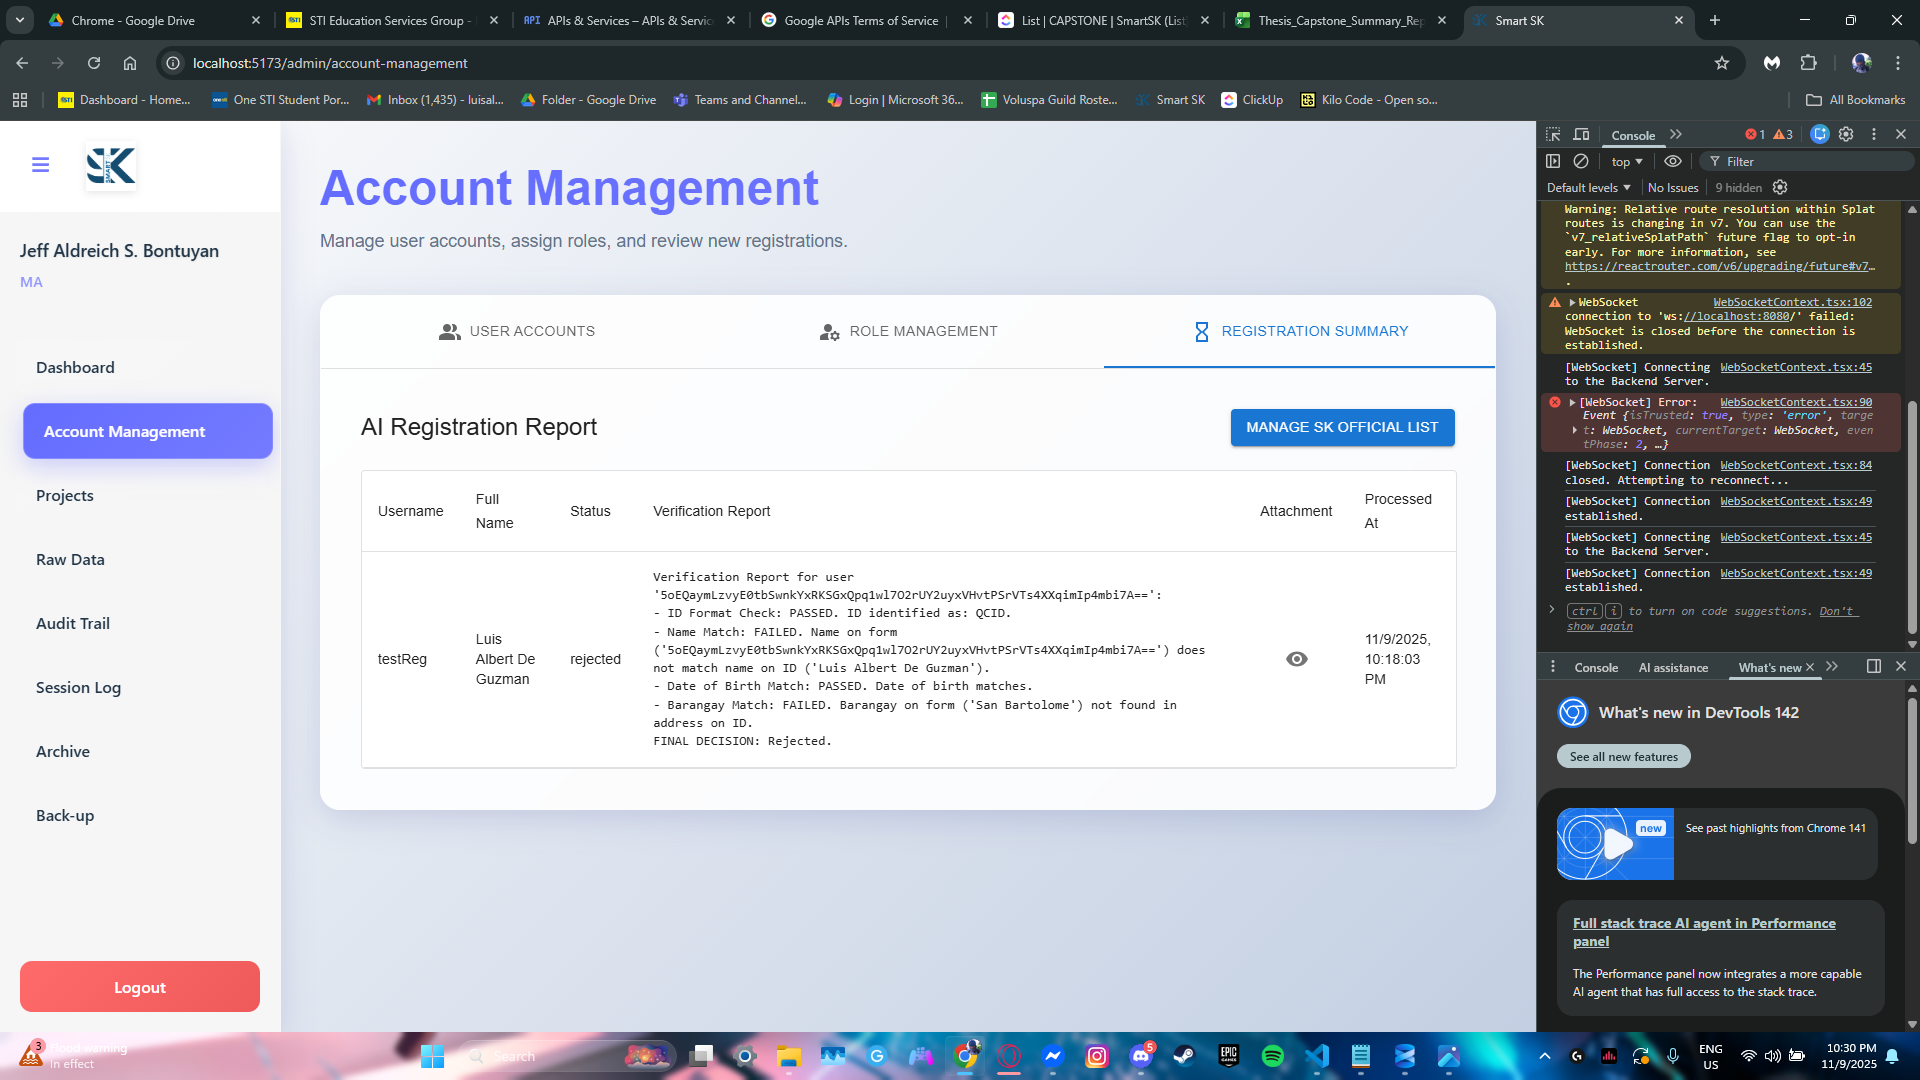
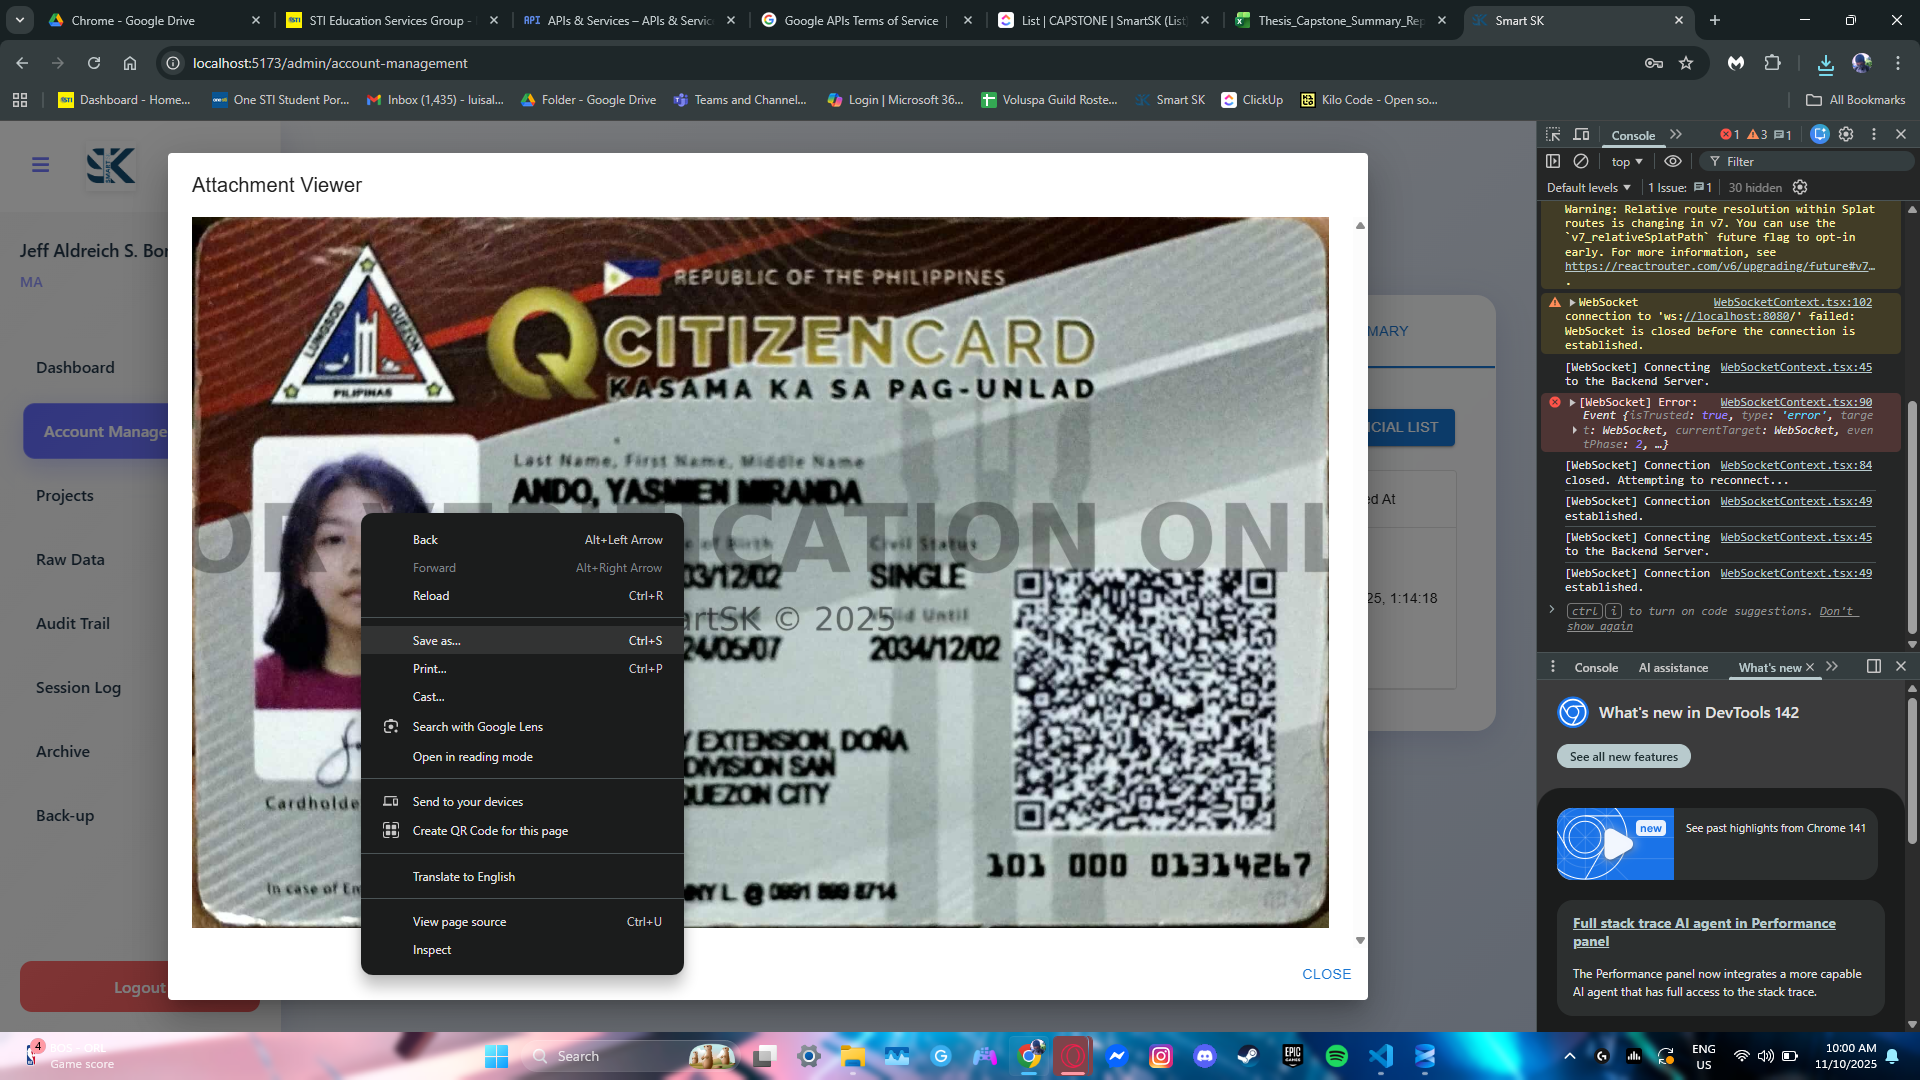
Register Module Debugged

diff --git a/backend/Admin/registerAudit.js b/backend/Admin/registerAudit.js
@@ -4,7 +4,7 @@ const { getConnection, sql } = require('../database/database');
 const { authMiddleware } = require('../session/session');
 const { addAuditTrail } = require('../audit/auditService');
 const { decrypt } = require('../utils/crypto');
-const { uploadTextToBlob, downloadBlobAsText, generateSasUrl, REGISTER_CONTAINER } = require('../Storage/storage');
+const { uploadTextToBlob, downloadBlobAsText, generateSasUrl, registerContainerName } = require('../Storage/storage');
 
 // --- SK Official List Endpoints ---
 
@@ -25,7 +25,7 @@ router.get('/officials', authMiddleware, async (req, res) => {
         const barangayName = barangayResult.recordset[0].barangayName;
         const blobName = `SK OFFICIAL - ${barangayName}.txt`;
 
-        const content = await downloadBlobAsText(REGISTER_CONTAINER, blobName);
+        const content = await downloadBlobAsText(registerContainerName, blobName);
         res.json({ success: true, content: content || '' });
 
     } catch (error) {
@@ -62,7 +62,7 @@ router.post('/officials', authMiddleware, async (req, res) => {
         const blobName = `SK OFFICIAL - ${barangayName}.txt`;
 
         // Upload the text content to Azure Blob Storage
-        await uploadTextToBlob(REGISTER_CONTAINER, blobName, officialsList);
+        await uploadTextToBlob(registerContainerName, blobName, officialsList);
 
         // Add audit trail
         addAuditTrail({
@@ -134,14 +134,14 @@ router.get('/attachment/:userId', authMiddleware, async (req, res) => {
         const pool = await getConnection();
         const result = await pool.request()
             .input('userID', sql.Int, userId)
-            .query('SELECT attachmentPath FROM preUserInfoEx WHERE userID = @userID');
+            .query('SELECT attachmentPath FROM registrationAudit WHERE userID = @userID');
 
         if (result.recordset.length === 0 || !result.recordset[0].attachmentPath) {
             return res.status(404).json({ success: false, message: 'Attachment not found for this user.' });
         }
 
         const blobName = result.recordset[0].attachmentPath;
-        const sasUrl = await generateSasUrl(REGISTER_CONTAINER, blobName);
+        const sasUrl = await generateSasUrl(registerContainerName, blobName);
 
         res.json({ success: true, url: sasUrl });
 

diff --git a/frontend/src/components/Admin/AccountManagement/RegistrationSummary.tsx b/frontend/src/components/Admin/AccountManagement/RegistrationSummary.tsx
@@ -195,13 +195,31 @@ const RegistrationSummary: React.FC = () => {
             </Dialog>
 
             {/* Attachment Viewer Modal */}
-            <Dialog open={isAttachmentModalOpen} onClose={handleCloseAttachmentModal} fullWidth maxWidth="lg">
+            <Dialog 
+                open={isAttachmentModalOpen} 
+                onClose={handleCloseAttachmentModal} 
+                fullWidth 
+                maxWidth="lg"
+                PaperProps={{
+                    sx: {
+                        userSelect: 'none',
+                        WebkitUserSelect: 'none',
+                        MozUserSelect: 'none',
+                        msUserSelect: 'none'
+                    }
+                }}
+            >
                 <DialogTitle>Attachment Viewer</DialogTitle>
                 <DialogContent sx={{ display: 'flex', justifyContent: 'center', alignItems: 'center' }}>
                     {modalLoading ? (
                         <CircularProgress />
                     ) : (
-                        <img src={attachmentUrl} alt="Registration Attachment" style={{ maxWidth: '100%', maxHeight: '80vh' }} />
+                        <img 
+                            src={attachmentUrl} 
+                            alt="Registration Attachment" 
+                            style={{ maxWidth: '100%', maxHeight: '80vh' }} 
+                            onContextMenu={(e) => e.preventDefault()}
+                        />
                     )}
                 </DialogContent>
                 <DialogActions>
